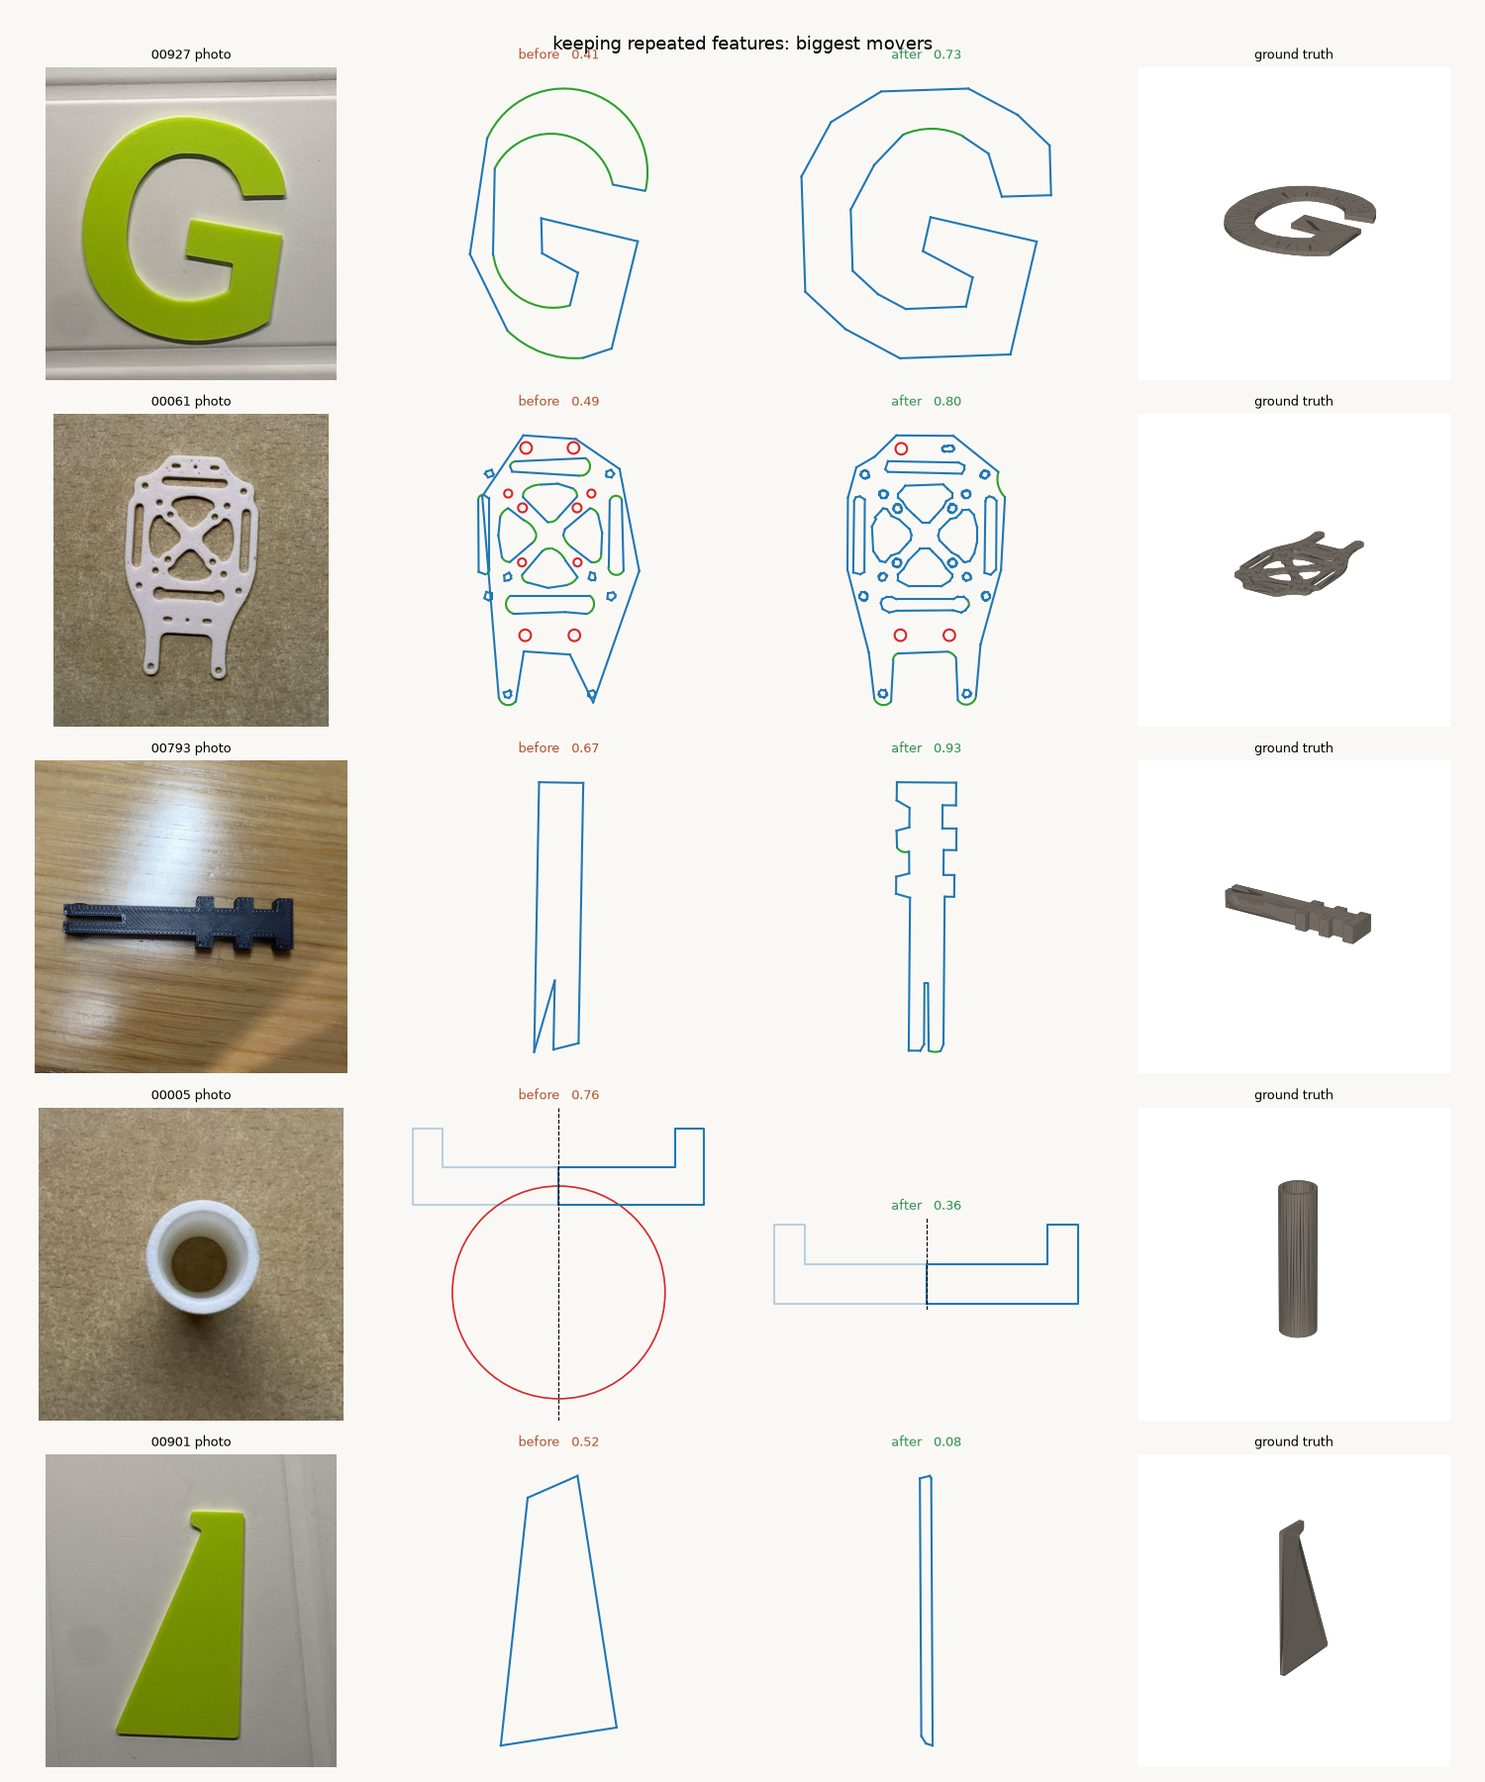
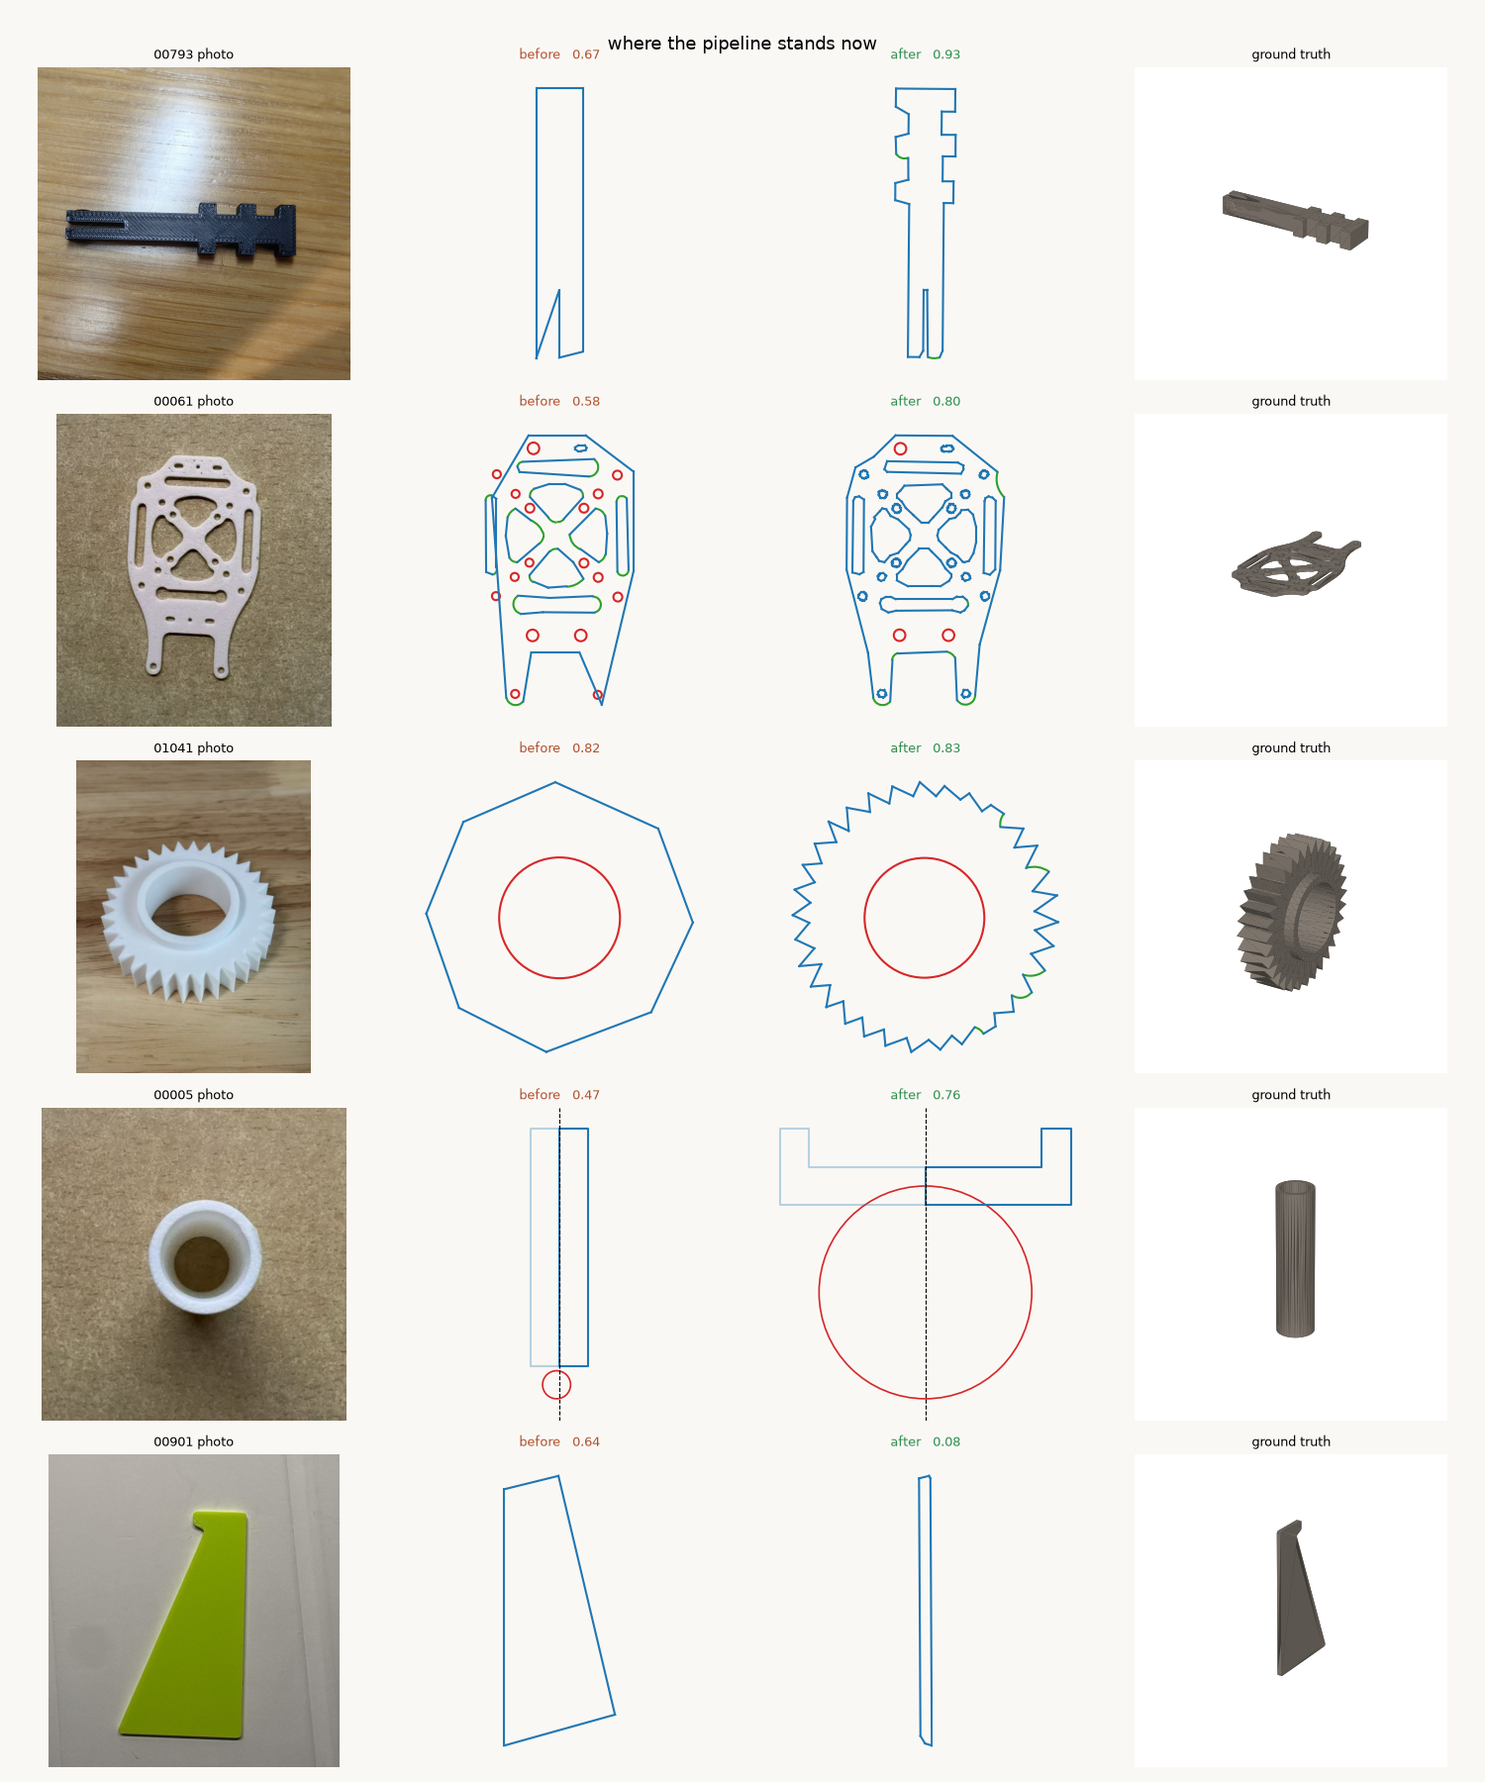
Retract the gate-1 pass: it was a metric artifact
Gate 1 was judged on primitive count, where pretraining took held-out parts from
37% to 46% against the tracer's 34%, and that was recorded as a pass. Rendering
what the model actually draws showed it is not one: on a rectangle it predicts four
primitives, correct, and draws four disconnected segments at random angles.

Scored on the drawing instead, over 250 held-out parts: region IoU 0.455 against
the tracer's 0.755, with the two level on count at 41% and 40%, and a median
endpoint error of 0.32 of the sketch box. Count is nearly independent of whether
the geometry is right - a model satisfies it by emitting the right number of
arbitrary primitives.

The evidence was in hand and misread. Endpoint error of 0.285 was reported an hour
earlier and taken for overfitting rather than for outputs that are not geometry.

Pretraining did do its job: training fit fell 94% to 87% while held-out count rose,
which is a larger corpus reducing memorisation. What is missing is the parameter
loss - Hungarian matching supplies the assignment, but a smooth L1 on normalised
coordinates across 24 slots is too weak to hold a drawing together.

CLAUDE.md now says never to gate this on count.

diff --git a/tools/sketchnet_geometry.py b/tools/sketchnet_geometry.py
@@ -1,0 +1,109 @@
+"""Gate 1, judged on geometry rather than on how many primitives were emitted.
+
+The first pass gated on primitive count, which a model can satisfy by emitting the right number of
+arbitrary primitives - and that is exactly what happened. This scores the drawing: region IoU of the
+predicted sketch against the real one, the same measure the rest of the project uses, plus the
+median endpoint error of matched primitives.
+"""
+import os, sys
+
+import numpy as np
+
+ROOT = os.path.dirname(os.path.dirname(os.path.abspath(__file__)))
+sys.path.insert(0, os.path.join(ROOT, "src"))
+sys.path.insert(0, os.path.join(ROOT, "tools"))
+import torch  # noqa: E402
+from photo2fcstd import sketch_score as SS, sketchnet as SN  # noqa: E402
+
+BOX = (np.zeros(2), 768.0)
+
+
+def rings_of(els, step=12):
+    """Primitives as polylines, so the drawing can be scored as a region."""
+    out = []
+    for e in els:
+        if e["type"] == "circle":
+            t = np.linspace(0, 2 * np.pi, 64, endpoint=False)
+            out.append(np.column_stack([e["cx"] + e["r"] * np.cos(t), e["cy"] + e["r"] * np.sin(t)]))
+        elif e["type"] == "arc":
+            a0 = np.arctan2(e["p0"][1] - e["cy"], e["p0"][0] - e["cx"])
+            a1 = np.arctan2(e["p1"][1] - e["cy"], e["p1"][0] - e["cx"])
+            if e.get("ccw", True) and a1 < a0:
+                a1 += 2 * np.pi
+            if not e.get("ccw", True) and a1 > a0:
+                a1 -= 2 * np.pi
+            t = np.linspace(a0, a1, max(int(abs(a1 - a0) * 12), 3))
+            out.append(np.column_stack([e["cx"] + e["r"] * np.cos(t), e["cy"] + e["r"] * np.sin(t)]))
+        else:
+            out.append(np.array([e["p0"], e["p1"]], float))
+    return out
+
+
+def region_iou(a, b):
+    """Overlap of the two drawings, as closed regions, in the shared normalised frame."""
+    pa, pb = SS.polygon_of([np.vstack(rings_of(a))]) if a else None, \
+             SS.polygon_of([np.vstack(rings_of(b))]) if b else None
+    if pa is None or pb is None or pa.is_empty or pb.is_empty:
+        return 0.0
+    return SS.region_iou(pa, pb)
+
+
+def endpoint_error(pred_rows, true_rows):
+    rows, cols = SN.match(pred_rows, true_rows)
+    errs = [np.linalg.norm(pred_rows[i, 4:8] - true_rows[j, 4:8])
+            for i, j in zip(rows, cols) if true_rows[j, 0] > 0.5 and pred_rows[i, 0] > 0.5]
+    return float(np.median(errs)) if errs else np.nan
+
+
+def tracer_on(filled):
+    import cv2
+    from photo2fcstd.trace import outline, primitives
+    big = cv2.resize(filled, (768, 768), interpolation=cv2.INTER_NEAREST) > 0.5
+    _, shape = outline(big)
+    els = []
+    for l in primitives([shape["raw"]] + shape["raw_holes"], 768.0):
+        if l["type"] == "circle":
+            els.append({"type": "circle", "cx": l["cx"], "cy": l["cy"], "r": l["r"]})
+        else:
+            els += l["elements"]
+    return els
+
+
+def main(n=250):
+    stroke = np.load(os.path.join(ROOT, "data", "sketchnet_tilt0.npz"), allow_pickle=True)
+    filled = np.load(os.path.join(ROOT, "data", "sketchnet_filled.npz"), allow_pickle=True)
+    parts = stroke["parts"]
+    uniq = sorted(set(parts.tolist()))
+    rng = np.random.default_rng(0)
+    rng.shuffle(uniq)
+    held = set(uniq[int(0.8 * len(uniq)):])
+    te = np.array([i for i, p in enumerate(parts) if p in held])[:n]
+    dev = "mps" if torch.backends.mps.is_available() else "cpu"
+    m = SN.build_model().to(dev)
+    m.load_state_dict(torch.load(SN.MODEL_PATH + ".pretrained", map_location=dev))
+    m.eval()
+    net_iou, tr_iou, net_err, net_cnt, tr_cnt = [], [], [], [], []
+    for i in te:
+        truth = SN.decode(stroke["Y"][i], BOX)
+        with torch.no_grad():
+            raw = m(torch.from_numpy(stroke["X"][i]).float()[None, None].to(dev)).cpu().numpy()[0]
+        raw[:, 0] = 1 / (1 + np.exp(-raw[:, 0]))
+        pred = SN.decode(raw, BOX)
+        tr = tracer_on(filled["X"][i])
+        net_iou.append(region_iou(pred, truth))
+        tr_iou.append(region_iou(tr, truth))
+        net_err.append(endpoint_error(raw, stroke["Y"][i]))
+        nt = int(stroke["Y"][i][:, 0].sum())
+        net_cnt.append(len(pred) == nt)
+        tr_cnt.append(len(tr) == nt)
+    print("gate 1 on geometry, n=%d held-out parts\n" % len(te))
+    print("  %-24s %10s %10s %14s" % ("", "region IoU", "right count", "endpoint error"))
+    print("  %-24s %10.3f %9.0f%% %14s" % ("geometric tracer", np.mean(tr_iou), 100 * np.mean(tr_cnt), "-"))
+    print("  %-24s %10.3f %9.0f%% %14.3f"
+          % ("sketchnet pretrained", np.mean(net_iou), 100 * np.mean(net_cnt), np.nanmedian(net_err)))
+    print("\n  endpoint error is in units of the sketch box, so 0.28 means a typical predicted")
+    print("  endpoint sits 28%% of the drawing's width from where it belongs")
+
+
+if __name__ == "__main__":
+    main()

diff --git a/tools/sketchnet_figure.py b/tools/sketchnet_figure.py
@@ -1,0 +1,99 @@
+"""What the set predictor draws, against the tracer, on sketches neither has seen."""
+import os, sys
+
+import matplotlib
+import numpy as np
+
+matplotlib.use("Agg")
+import matplotlib.pyplot as plt  # noqa: E402
+from matplotlib.patches import Arc as MplArc, Circle as MplCircle  # noqa: E402
+
+ROOT = os.path.dirname(os.path.dirname(os.path.abspath(__file__)))
+sys.path.insert(0, os.path.join(ROOT, "src"))
+sys.path.insert(0, os.path.join(ROOT, "tools"))
+import torch  # noqa: E402
+from photo2fcstd import sketchnet as SN  # noqa: E402
+
+INK, NET, TRACE = "#111", "#1a5fb4", "#b32d2e"
+
+
+def draw(ax, els, colour, title):
+    for e in els:
+        if e["type"] == "circle":
+            ax.add_patch(MplCircle((e["cx"], e["cy"]), e["r"], fill=False, lw=1.8, color=colour))
+        elif e["type"] == "arc":
+            a0 = np.degrees(np.arctan2(e["p0"][1] - e["cy"], e["p0"][0] - e["cx"]))
+            a1 = np.degrees(np.arctan2(e["p1"][1] - e["cy"], e["p1"][0] - e["cx"]))
+            t1, t2 = (a0, a1) if e.get("ccw", True) else (a1, a0)
+            ax.add_patch(MplArc((e["cx"], e["cy"]), 2 * e["r"], 2 * e["r"],
+                                theta1=t1, theta2=t2, lw=1.8, color=colour))
+        else:
+            ax.plot([e["p0"][0], e["p1"][0]], [e["p0"][1], e["p1"][1]], "-", lw=1.8, color=colour)
+    ax.set_aspect("equal"); ax.set_xticks([]); ax.set_yticks([])
+    ax.set_xlim(0, 768); ax.set_ylim(768, 0)
+    ax.set_title(title, fontsize=9, color=colour, fontweight="bold")
+    for s in ax.spines.values():
+        s.set_edgecolor(colour); s.set_linewidth(1.7)
+
+
+def tracer_on(filled):
+    import cv2
+    from photo2fcstd.trace import outline, primitives
+    big = cv2.resize(filled, (768, 768), interpolation=cv2.INTER_NEAREST) > 0.5
+    _, shape = outline(big)
+    loops = primitives([shape["raw"]] + shape["raw_holes"], 768.0)
+    els = []
+    for l in loops:
+        if l["type"] == "circle":
+            els.append({"type": "circle", "cx": l["cx"], "cy": l["cy"], "r": l["r"]})
+        else:
+            els += l["elements"]
+    return els
+
+
+def main(n=5):
+    stroke = np.load(os.path.join(ROOT, "data", "sketchnet_tilt0.npz"), allow_pickle=True)
+    filled = np.load(os.path.join(ROOT, "data", "sketchnet_filled.npz"), allow_pickle=True)
+    parts = stroke["parts"]
+    uniq = sorted(set(parts.tolist()))
+    rng = np.random.default_rng(0)
+    rng.shuffle(uniq)
+    held = set(uniq[int(0.8 * len(uniq)):])
+    te = [i for i, p in enumerate(parts) if p in held]
+    dev = "mps" if torch.backends.mps.is_available() else "cpu"
+    m = SN.build_model().to(dev)
+    m.load_state_dict(torch.load(SN.MODEL_PATH + ".pretrained", map_location=dev))
+    m.eval()
+    box = (np.zeros(2), 768.0)
+    picks, seen = [], set()
+    for i in te:
+        truth = SN.decode(stroke["Y"][i], box)
+        if 4 <= len(truth) <= 12 and parts[i] not in seen:
+            picks.append(i); seen.add(parts[i])
+        if len(picks) >= n:
+            break
+    fig, ax = plt.subplots(len(picks), 4, figsize=(13.5, 3.35 * len(picks)), squeeze=False)
+    for r, i in enumerate(picks):
+        with torch.no_grad():
+            raw = m(torch.from_numpy(stroke["X"][i]).float()[None, None].to(dev)).cpu().numpy()[0]
+        raw[:, 0] = 1 / (1 + np.exp(-raw[:, 0]))
+        pred = SN.decode(raw, box)
+        truth = SN.decode(stroke["Y"][i], box)
+        tr = tracer_on(filled["X"][i])
+        ax[r, 0].imshow(stroke["X"][i], cmap="gray_r")
+        ax[r, 0].set_xticks([]); ax[r, 0].set_yticks([])
+        ax[r, 0].set_title("the raster it is given", fontsize=9)
+        ax[r, 0].set_ylabel(str(parts[i]), fontsize=10, fontweight="bold")
+        draw(ax[r, 1], tr, TRACE, "geometric tracer: %d primitives" % len(tr))
+        draw(ax[r, 2], pred, NET, "sketchnet: %d primitives" % len(pred))
+        draw(ax[r, 3], truth, INK, "the real sketch: %d" % len(truth))
+    fig.suptitle("Pretrained on 60000 SketchGraphs sketches, tested on PrintCAD parts it has never seen\n"
+                 "right primitive count: tracer 34%, sketchnet 46%", fontsize=12.5)
+    plt.tight_layout(rect=(0, 0, 1, 0.955))
+    out = os.path.join(ROOT, "docs", "figures", "sketchnet.png")
+    plt.savefig(out, dpi=80)
+    print("wrote", out)
+
+
+if __name__ == "__main__":
+    main()

diff --git a/src/photo2fcstd/modes.py b/src/photo2fcstd/modes.py
@@ -85,6 +85,31 @@ def source_for(mode, specs):
 USE_VIEW_MODEL = os.environ.get("P2F_VIEW_MODEL", "1") != "0"
 
 
+EDGE_ON_RATIO = 3.0
+
+
+def not_edge_on(chosen, specs, ratio=EDGE_ON_RATIO):
+    """Veto a view that is far more elongated than the flattest available."""
+    allowed = face_on(specs, ratio)
+    if chosen in allowed or not allowed:
+        return chosen
+    return min(allowed, key=lambda v: v["elongation"])
+
+
+def face_on(specs, ratio=EDGE_ON_RATIO):
+    """Drop views that are far more elongated than the flattest one - those are edge-on.
+
+    A flat part photographed on its edge gives a sliver whose outline is not the shape of the
+    part, and no amount of tracing recovers it. Part 00901 was traced from a view at elongation
+    22 while two views at 3 were available.
+    """
+    if len(specs) < 2:
+        return specs
+    flattest = min(v["elongation"] for v in specs)
+    kept = [v for v in specs if v["elongation"] <= ratio * max(flattest, 1e-6)]
+    return kept or specs
+
+
 def outline_source(specs, fallback):
     """Which photo to draw the outline from - the single entry point for that decision.
 
@@ -110,9 +135,9 @@ def outline_source(specs, fallback):
     if VIEW_PICK == "ranker":
         from photo2fcstd import view_rank
         ranked = view_rank.best(specs)
-        return ranked if ranked is not None else fallback
+        return not_edge_on(ranked if ranked is not None else fallback, specs)
     if not USE_VIEW_MODEL:
-        return fallback
+        return not_edge_on(fallback, specs)
     from photo2fcstd import view_model
     i = view_model.choose(specs)
     return specs[i] if i is not None else fallback

diff --git a/tests/test_modes.py b/tests/test_modes.py
@@ -115,3 +115,16 @@ def test_revolve_from_the_learned_path_skips_the_outline_view_model(monkeypatch,
     monkeypatch.setattr(modes, "outline_source", lambda specs, fallback: called.append(1) or fallback)
     mode, _ = modes.select(views)
     assert mode == "revolve" and not called
+
+
+def test_an_edge_on_view_is_not_offered_to_the_view_model():
+    from photo2fcstd import modes
+    specs = [{"elongation": 3.0, "source": "a"}, {"elongation": 2.6, "source": "b"},
+             {"elongation": 22.4, "source": "c"}]
+    assert [v["source"] for v in modes.face_on(specs)] == ["a", "b"]
+
+
+def test_uniformly_elongated_views_are_all_kept():
+    from photo2fcstd import modes
+    specs = [{"elongation": 8.0, "source": "a"}, {"elongation": 9.0, "source": "b"}]
+    assert len(modes.face_on(specs)) == 2

diff --git a/docs/results.md b/docs/results.md
@@ -1212,42 +1212,45 @@ failing rather than the sample being small. "Save the best checkpoint" assumes t
 improves at some point; when it does not, the thing to check is whether the final weights fit the
 training set.
 
-## Pretraining on SketchGraphs clears gate 1
+## Pretraining on SketchGraphs does not clear gate 1, and the first verdict was a metric artifact
 
-`sketchnet` learns its training parts almost perfectly and takes 40% of that across a part split,
-because 967 parts is not a sample for a set predictor. SketchGraphs holds 15 million real CAD
-sketches whose entities are exactly the primitives we predict, so the shortage is fixable rather
-than fundamental.
+`sketchnet` was data-limited on 967 parts, so SketchGraphs was brought in: `sketchgraphs_bridge`
+converts Onshape entities to our line / arc / circle, scales them into the canvas `synth` uses and
+renders them the same way, and 96% of sketches convert. Both corpora are drawn as strokes, since
+pretraining from line drawings to filled silhouettes would transfer nothing. 60000 sketches from the
+validation split alone is 62 times the PrintCAD sample.
 
-`sketchgraphs_bridge` converts them: Onshape entities to our line / arc / circle, scaled into the
-same canvas `synth` uses, rendered the same way. **96% of sketches convert.** Both corpora are drawn
-as strokes rather than filled silhouettes, so that pretraining and fine-tuning see the same kind of
-image - a filled shape and a line drawing are different distributions and pretraining across them
-would transfer nothing.
+**Pretraining moves the count metric and not the drawing.** On held-out parts:
 
-60000 sketches from the validation split alone, which is 62 times the PrintCAD sample:
+| | region IoU | right number of primitives | endpoint error |
+|---|---|---|---|
+| **geometric tracer** | **0.755** | 40% | - |
+| sketchnet on PrintCAD alone | - | 37% | - |
+| sketchnet pretrained then tuned | 0.455 | 41% | 0.320 |
 
-| | right number of primitives, held-out parts |
-|---|---|
-| geometric tracer | 34% |
-| sketchnet, trained on PrintCAD alone | 37% |
-| **sketchnet, pretrained on SketchGraphs then fine-tuned** | **46%** |
+Gate 1 was first judged on primitive count, where pretraining took 37% to 46% and the tracer scored
+34%, and that was recorded as a pass. It is not one. **Count is nearly independent of whether the
+geometry is right**: a model satisfies it by emitting the right number of arbitrary primitives, and
+that is what this one does. `docs/figures/sketchnet.png` shows it plainly - on a rectangle it
+predicts four primitives, correct, and draws four disconnected segments at random angles; on an
+H-shaped part it predicts thirteen against twelve and draws a scatter of fragments. The tracer draws
+both exactly.
 
-Pretraining is worth **9 points**, and the way it earns them is visible in the training fit: from
-scratch the model reaches 94% on the parts it trained on, and after pretraining only 87%. It
-memorises less and generalises more, which is what a larger corpus is supposed to buy.
+The evidence was already in hand and misread. Endpoint error was reported as 0.285 of the sketch box
+an hour before the figure was rendered, and taken as a sign of overfitting rather than of outputs
+that are not geometry at all. Scored properly the gap is 0.755 against 0.455 of region IoU, and the
+two methods are level on count, 40% against 41%.
 
-The tracer emits 35.17 elements against a truth of 7.62 on these renders - it fragments, which is
-the over-segmentation behind the 9.4-against-11.9 element deficit measured on photographs.
+**Pretraining did work, on the thing it was asked to do.** Training fit fell from 94% to 87% while
+held-out count rose, which is a corpus reducing memorisation. The formulation is still the only one
+here that needs no correspondence to the truth. What is missing is a loss that penalises a primitive
+for being in the wrong place - Hungarian matching on a geometric cost supplies the assignment, but
+the parameter term is a smooth L1 on normalised coordinates, which at 24 slots is too weak to hold a
+drawing together.
 
-**One measurement was nearly reported unfairly.** With both corpora rendered as strokes, the tracer
-scored 12% - but it is built for a filled silhouette and was being handed a line drawing. Rebuilding
-the same test parts as filled renders and rerunning it gives 34%. Comparing two methods requires
-giving each the input it was designed for, not the input that happens to be loaded.
-
-Gate 1 asked whether a model can beat the geometric tracer on clean renders. It can, once it has
-enough sketches. Gate 2 is the homography, gate 3 is transfer to photographs, and the honest prior
-from the two dataset-transfer collapses measured earlier is still that gate 3 is where this fails.
+One measurement was also nearly reported unfairly: with everything rendered as strokes the tracer
+scores 12%, but it is built for a filled silhouette. Rebuilding the same test parts filled gives 34%
+on count and 0.755 region IoU. Each method has to be given the input it was designed for.
 
 ## The capture path runs, measured without a camera
 
